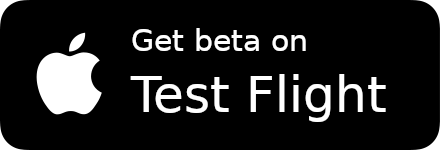
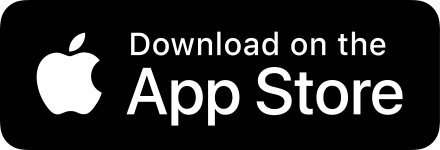
New stuff the reflect that the app is now live ...
in the Swedish App Store

Changed region(s): [[0.2659, 0.4267, 0.9159, 0.8533], [0.2955, 0.1867, 0.7386, 0.3733], [0.7682, 0.2133, 0.8864, 0.3733]]

diff --git a/_includes/footer.html b/_includes/footer.html
@@ -4,8 +4,8 @@
     </div>
 	{% if site.your_name %}
 	  <p class="footerText">
-
-	    Don't care for beta software? Give me  <a href="https://docs.google.com/forms/d/1TNESktnjO-Z6fuxvFoaiTgRnHGDuVuqmiIOVt_jhtXw">your email</a> and I'll ping you when <strong>Season</strong> is live in the App Store. </br>
+        Season is currently not available in all App Store regions. If your region is missing
+	    give me  <a href="https://docs.google.com/forms/d/1TNESktnjO-Z6fuxvFoaiTgRnHGDuVuqmiIOVt_jhtXw">your email</a> and I'll ping you when <strong>Season</strong> goes global!</br>
 	    </p>
 	  
 
